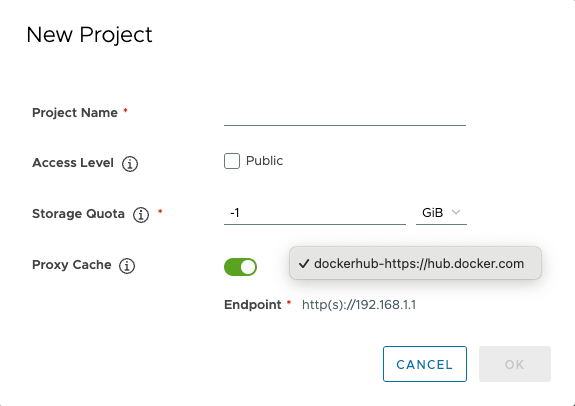
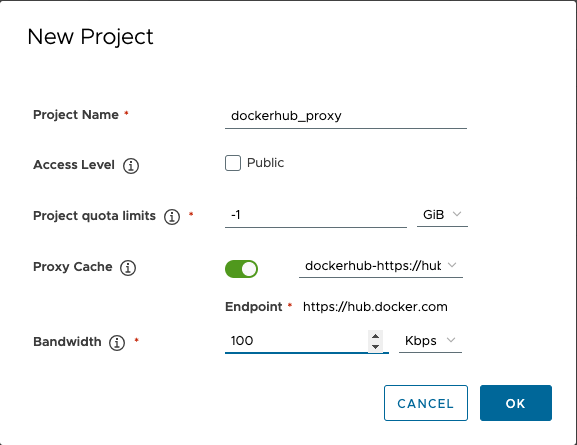
add speed limit

diff --git a/docs/administration/configure-proxy-cache/_index.md b/docs/administration/configure-proxy-cache/_index.md
@@ -52,7 +52,7 @@ A proxy cache project is able to use the same features available to a normal Har
 
 1. On the Projects page, click **New Project** and configure the new project information. See the [Create Projects](../../working-with-projects/create-projects/) documentation for more details.
 
-1. Click the **Proxy Cache** slider and then select your registry endpoint from the drop-down that appears.
+1. Click the **Proxy Cache** slider and then select your registry endpoint from the drop-down that appears. The Bandwidth is the pull image speed limit to the upstream registry, -1 means no limit.
 
     ![add proxy cache project](../../img/add-proxy-cache-project.png)
 
